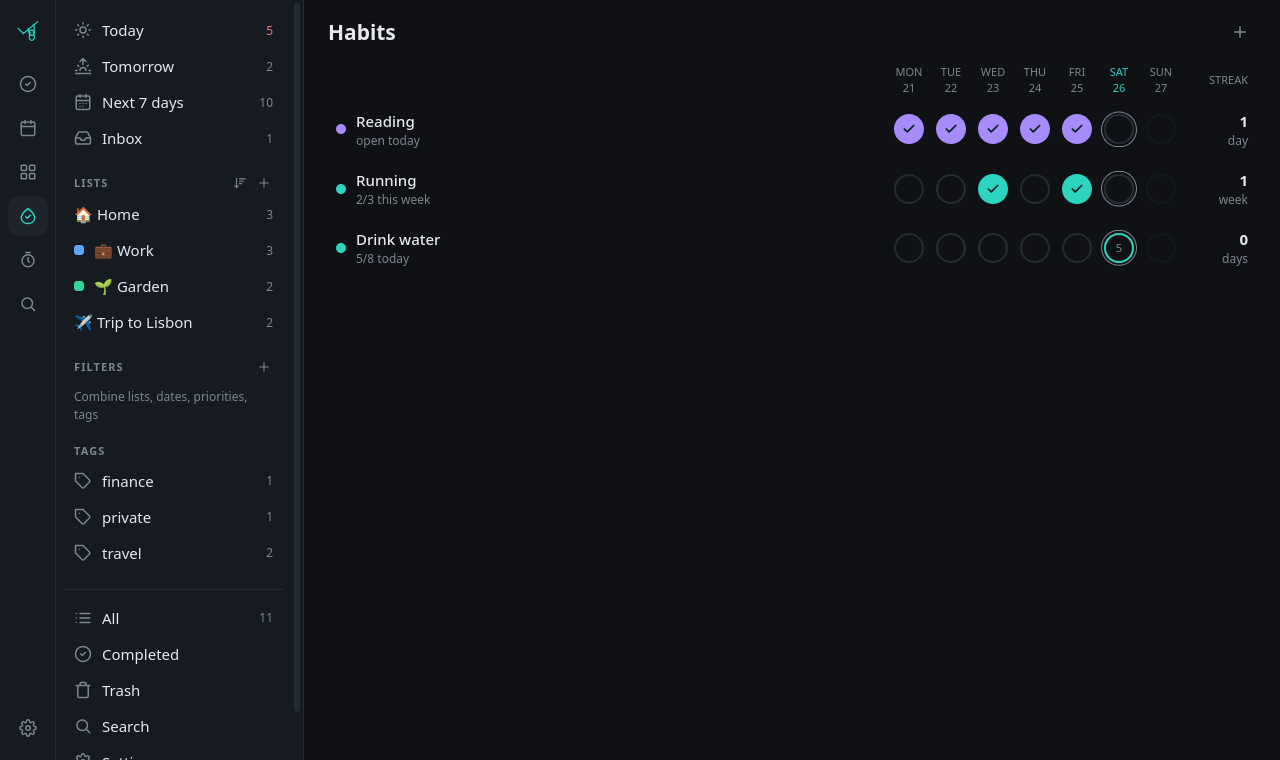
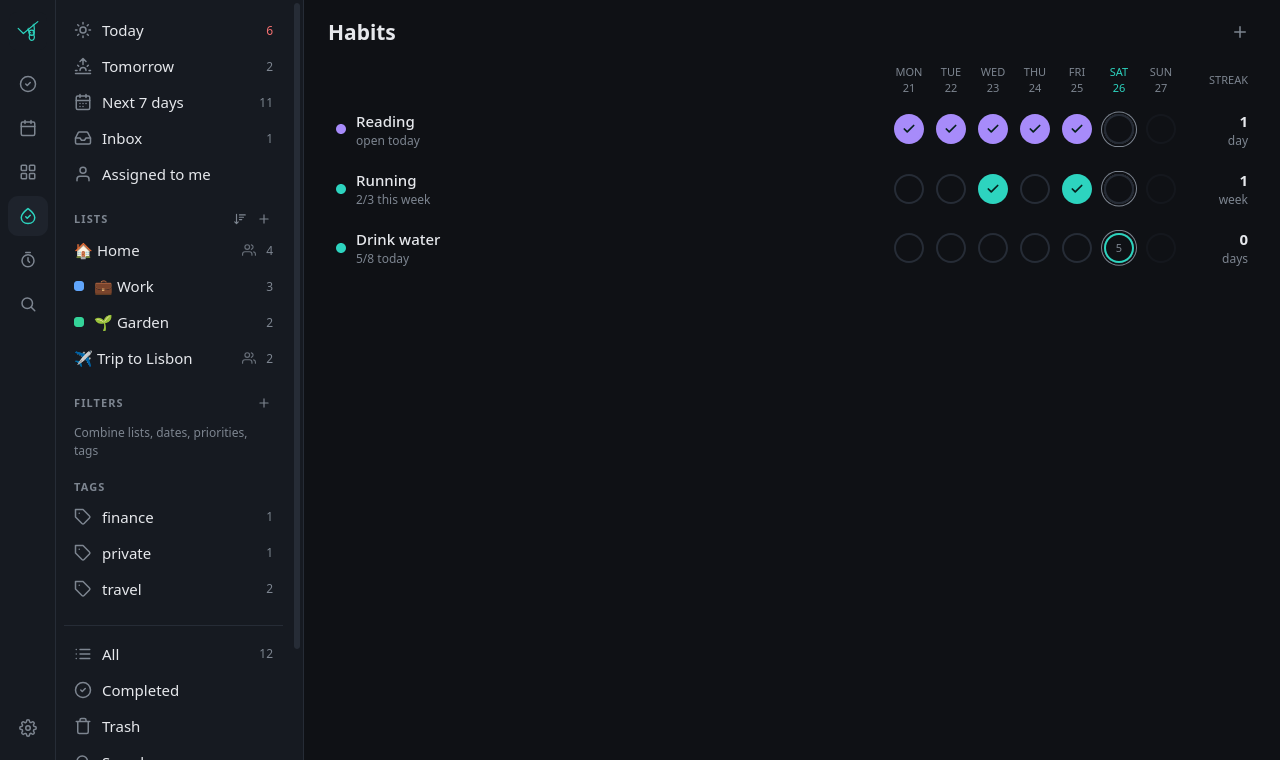
README: fresh screenshots with multi-user demo (sharing, assignment)

diff --git a/README.md b/README.md
@@ -89,6 +89,8 @@ To remove the test again: `docker compose down` and delete the folder (your test
 
 ## Users and sharing
 
+<p align="center"><img src="docs/share.png" width="760" alt="Edit list dialog with the Sharing section: owner and a member who can edit"></p>
+
 - **Accounts:** admins manage users under *Settings > Users* (username, display name, optional password,
   optional SSO login, admin flag, ntfy topic, disable / delete). Everyone can change their own display name and
   password under *Settings > Account*. A user who still owns lists cannot be deleted (delete the lists or
